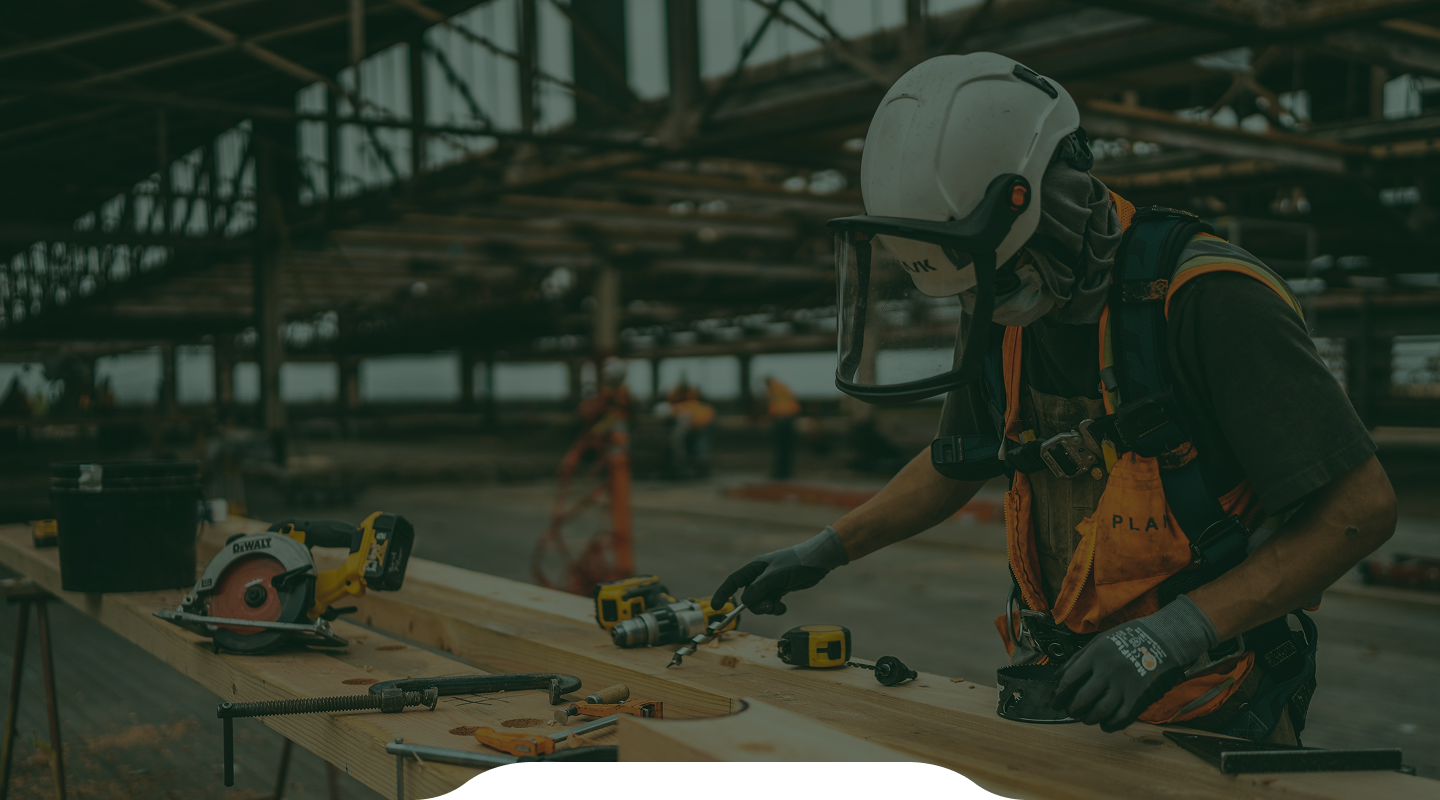
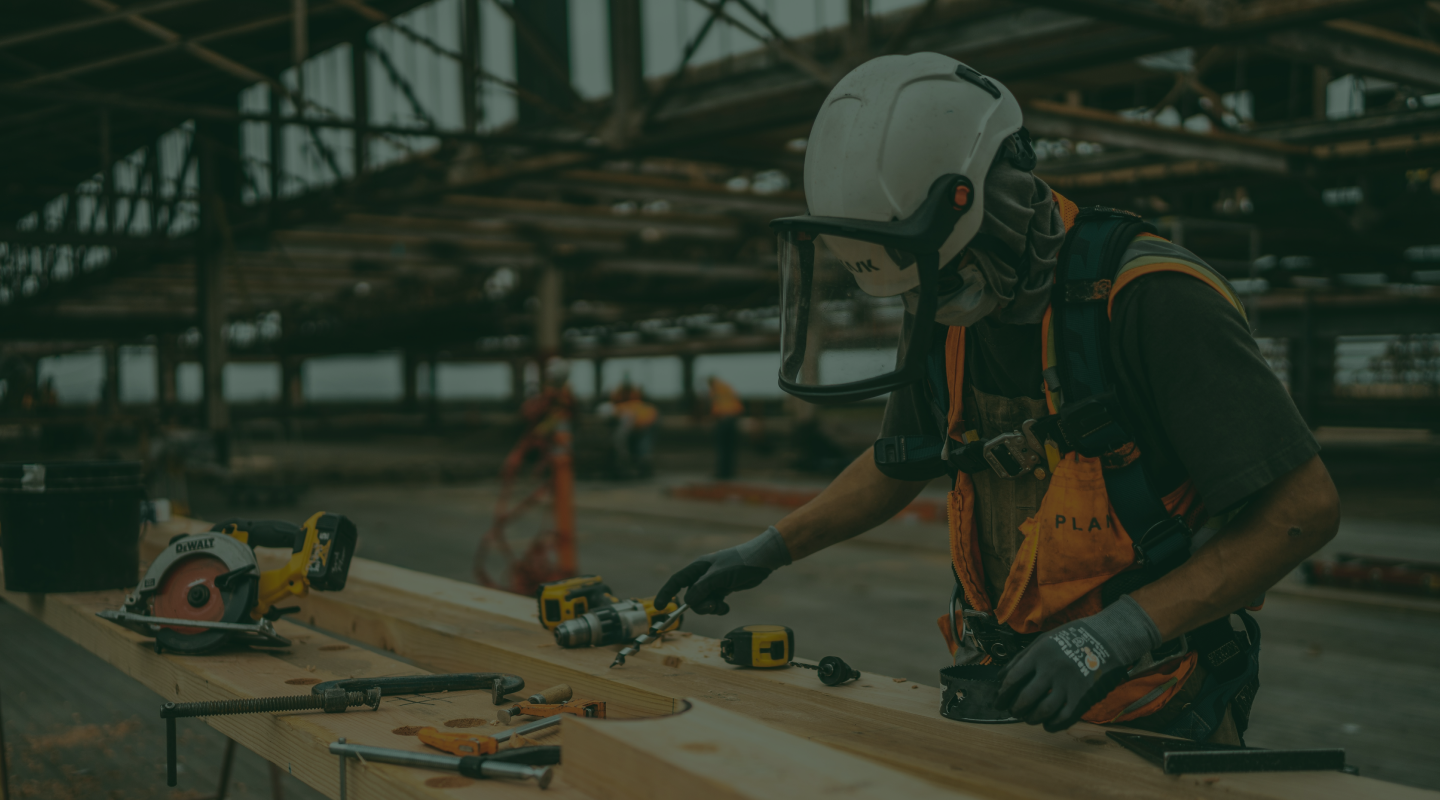
edits

diff --git a/src/components/About/About.styled.jsx b/src/components/About/About.styled.jsx
@@ -1,5 +1,69 @@
 import styled from 'styled-components';
 
+export const TopBlock = styled.div`
+  display: flex;
+  justify-content: center;
+  clip-path: polygon(
+    48.632% 100%,
+    49.968% 100%,
+    51.303% 100%,
+    99.935% 100%,
+    99.935% 100%,
+    98.975% 99.53%,
+    98.027% 98.136%,
+    97.096% 95.836%,
+    96.184% 92.653%,
+    95.296% 88.608%,
+    94.437% 83.72%,
+    93.61% 78.011%,
+    92.819% 71.501%,
+    92.069% 64.212%,
+    91.364% 56.164%,
+    91.364% 56.164%,
+    90.46% 45.853%,
+    89.499% 36.514%,
+    88.486% 28.174%,
+    87.426% 20.859%,
+    86.325% 14.597%,
+    85.188% 9.413%,
+    84.02% 5.335%,
+    82.826% 2.389%,
+    81.611% 0.602%,
+    80.382% 0%,
+    51.303% 0%,
+    49.968% 0%,
+    48.632% 0%,
+    19.553% 0%,
+    19.553% 0%,
+    18.324% 0.602%,
+    17.109% 2.389%,
+    15.915% 5.335%,
+    14.747% 9.413%,
+    13.61% 14.597%,
+    12.509% 20.859%,
+    11.449% 28.174%,
+    10.436% 36.514%,
+    9.475% 45.853%,
+    8.571% 56.164%,
+    8.571% 56.164%,
+    7.866% 64.212%,
+    7.116% 71.501%,
+    6.325% 78.011%,
+    5.498% 83.72%,
+    4.639% 88.608%,
+    3.751% 92.653%,
+    2.84% 95.836%,
+    1.908% 98.136%,
+    0.96% 99.53%,
+    0% 100%,
+    48.632% 100%
+  );
+  background-color:white;
+  width: 615px;
+  height:38px;
+  margin-top:-38px;
+`;
+
 export const AboutMainContainer = styled.div`
   padding: 0 40px;
   display: flex;

diff --git a/src/components/Header/HeaderHero/HeaderHero.jsx b/src/components/Header/HeaderHero/HeaderHero.jsx
@@ -9,7 +9,7 @@ import {
   MainTitle,
   MainTitleSpan,
 } from './HeaderHero.styled';
-import header_button from '../../../images/header_button.png';
+import header_button from '../../../images/header_big_botton.png';
 import button_arrow from '../../../images/button_arrow.png';
 import { ImageBlock } from '../HeaderMenu/HeaderMenu.styled';
 import whiteBigArrow from '../../../images/whiteBigArrow.png';

diff --git a/src/components/About/About.jsx b/src/components/About/About.jsx
@@ -10,12 +10,14 @@ import {
   AboutBigLeftContainerList,
   AboutBigRightContainer,
   AboutSliderTopConInfo,
+  TopBlock,
 } from './About.styled';
 import try_image from '../../images/try_slider_image.png';
 
 const About = () => {
   return (
     <AboutMainContainer>
+      <TopBlock/>
       <AboutMainTitle>О НАС</AboutMainTitle>
 
       <AboutBigConatiner>
